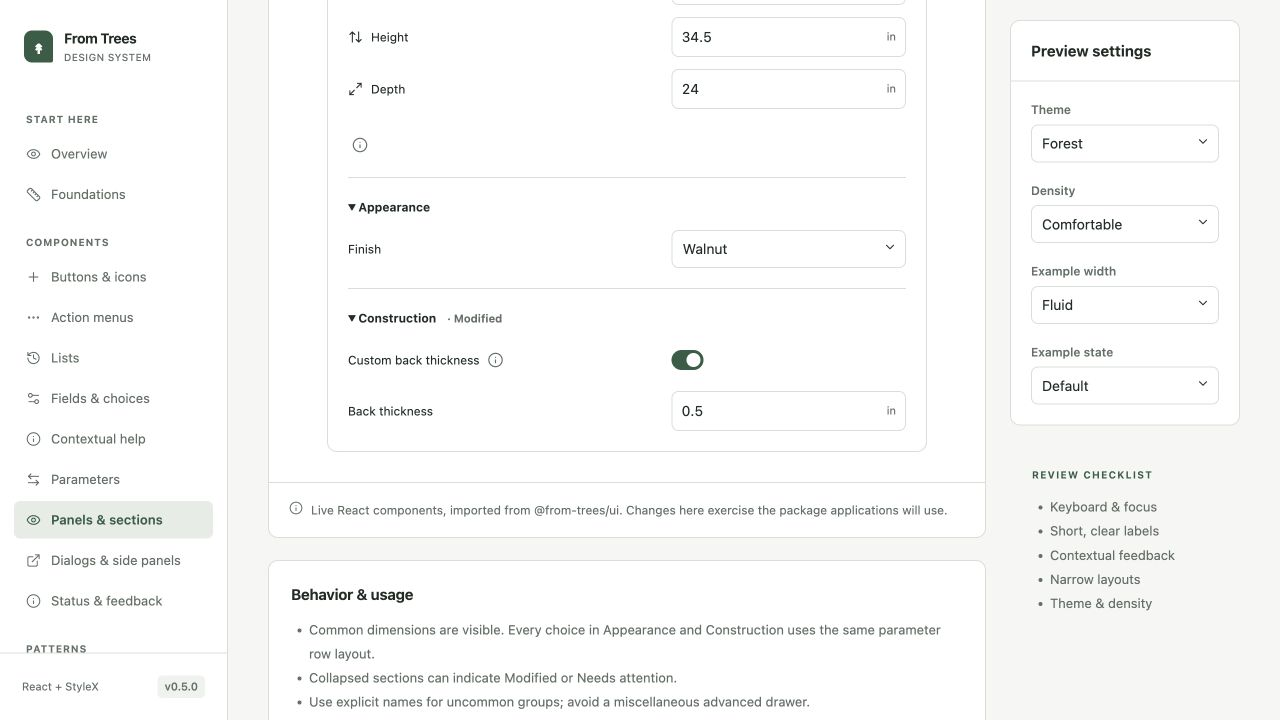
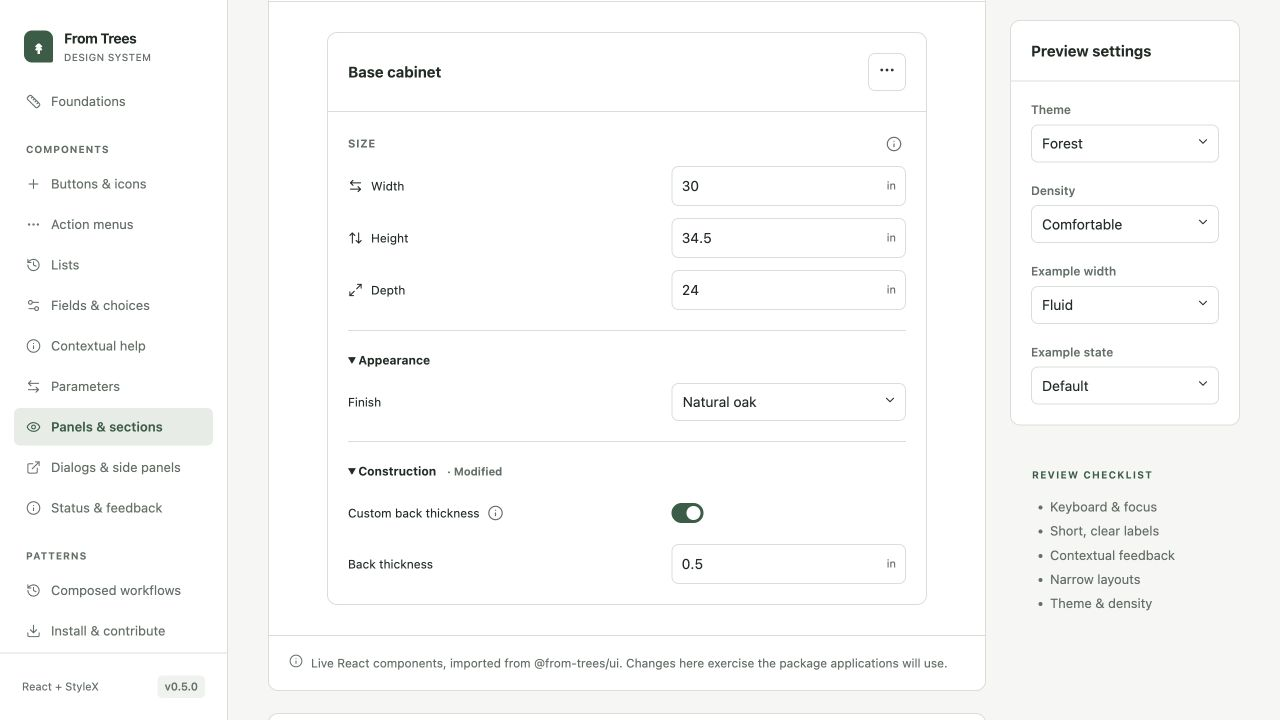
Place shared measurement help beside the first group heading

diff --git a/packages/ui/src/Parameters.tsx b/packages/ui/src/Parameters.tsx
@@ -45,6 +45,8 @@ export type ParameterRowProps = {
 export type ParameterGroup = {
   id: string;
   label?: string;
+  help?: string;
+  helpLabel?: string;
   parameters: readonly (Parameter | CustomParameter)[];
 };
 export type ParametersProps = {
@@ -54,7 +56,15 @@ export type ParametersProps = {
 const styles = stylex.create({
   root: { display: "flex", flexDirection: "column", gap: 18 },
   group: { margin: 0, padding: 0, borderWidth: 0, minWidth: 0 },
+  groupHeading: {
+    display: "flex",
+    alignItems: "center",
+    justifyContent: "space-between",
+    gap: 12,
+  },
   legend: {
+    width: "100%",
+    boxSizing: "border-box",
     fontSize: 11,
     fontWeight: 650,
     color: color.muted,
@@ -290,8 +300,19 @@ export function Parameters({ groups, unit }: ParametersProps) {
         .filter((group) => group.parameters.length > 0)
         .map((group) => (
           <fieldset key={group.id} {...stylex.props(styles.group)}>
-            {group.label && (
-              <legend {...stylex.props(styles.legend)}>{group.label}</legend>
+            {(group.label || group.help) && (
+              <legend {...stylex.props(styles.legend)}>
+                <span {...stylex.props(styles.groupHeading)}>
+                  <span>{group.label}</span>
+                  {group.help && (
+                    <InfoTooltip
+                      label={group.helpLabel ?? group.label ?? "Parameters"}
+                    >
+                      {group.help}
+                    </InfoTooltip>
+                  )}
+                </span>
+              </legend>
             )}
             <div {...stylex.props(styles.fields)}>
               {group.parameters.map((parameter) =>

diff --git a/packages/ui/test/ParameterRow.test.tsx b/packages/ui/test/ParameterRow.test.tsx
@@ -108,3 +108,38 @@ it("accepts mixed schema controls and forwards row help and errors to custom edi
   expect(screen.getByRole("textbox", { name: "Locked" })).toBeDisabled();
   expect(screen.getAllByText("Mode")).toHaveLength(1);
 });
+
+it("places shared editing help in the group heading above its editors", async () => {
+  const user = userEvent.setup();
+  render(
+    <ThemeProvider>
+      <Parameters
+        groups={[
+          {
+            id: "size",
+            label: "Size",
+            helpLabel: "Entering measurements",
+            help: "Use decimals or fractions.",
+            parameters: [
+              { id: "width", label: "Width", value: 12, onChange: () => {} },
+            ],
+          },
+        ]}
+      />
+    </ThemeProvider>,
+  );
+  const help = screen.getByRole("button", {
+    name: "About Entering measurements",
+  });
+  expect(help.closest("legend")).toHaveTextContent("Size");
+  expect(
+    help.compareDocumentPosition(
+      screen.getByRole("textbox", { name: "Width" }),
+    ) & Node.DOCUMENT_POSITION_FOLLOWING,
+  ).toBeTruthy();
+  await user.tab();
+  expect(help).toHaveFocus();
+  expect(await screen.findByRole("tooltip")).toHaveTextContent(
+    "Use decimals or fractions.",
+  );
+});

diff --git a/apps/catalog/src/demos.tsx b/apps/catalog/src/demos.tsx
@@ -176,14 +176,7 @@ export function ParameterDemo({
         </Status>
       ) : changed ? (
         <Status tone="success">{changed}</Status>
-      ) : (
-        <div {...stylex.props(layout.row)}>
-          <InfoTooltip label="Entering measurements">
-            Use decimals or fractions, such as 30 1/2, 30.5 or 1/2. Leaving the
-            field commits; Enter leaves the field; Escape resets the draft.
-          </InfoTooltip>
-        </div>
-      )}
+      ) : null}
     </Stack>
   );
 }

diff --git a/apps/catalog/src/CabinetParameters.tsx b/apps/catalog/src/CabinetParameters.tsx
@@ -46,6 +46,8 @@ export function CabinetParameters({
     {
       id: "size",
       label: "Size",
+      helpLabel: "Entering measurements",
+      help: "Use decimals or fractions, such as 30 1/2, 30.5 or 1/2. Changes apply when focus leaves the field. Enter finishes editing; Escape resets the draft.",
       parameters: [
         field("width", "Width", "width", { min: 1 }),
         field("height", "Height", "height", { min: 1 }),

diff --git a/docs/components.md b/docs/components.md
@@ -169,3 +169,5 @@ Schemas remain supported. A `CustomParameter` has the usual `id`, `label`, optio
 ```
 
 Keep exactly one editor in each row. The row owns layout and accessible labeling; it does not change a select or switch into a numeric input, or apply measurement parsing to custom controls. Review **Mixed parameter editors** on the Parameters page and the expanded **Appearance** and **Construction** sections on Panels & sections before app adoption.
+
+Parameter groups accept optional `help` and `helpLabel`. The help icon sits at the right edge of the group heading, above the editor column. Use the first group for instructions shared by the whole parameter set, such as measurement syntax; keep per-property help beside its row label. The catalog app supplies that guidance, not the generic library.
